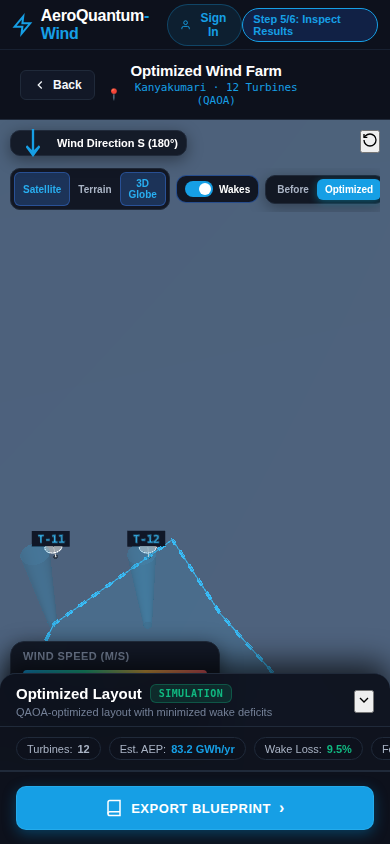
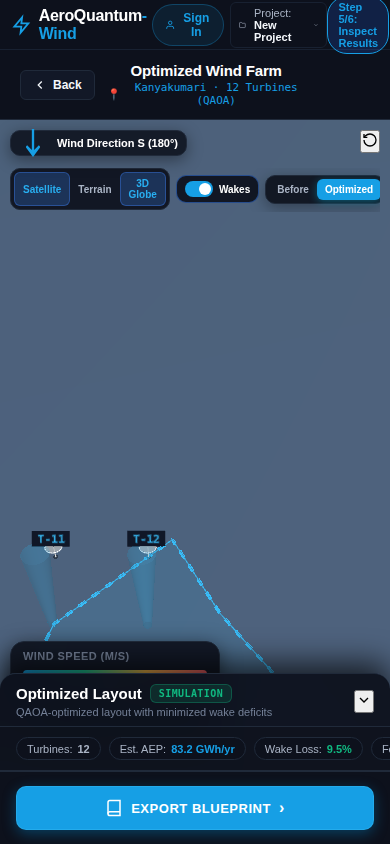
fix(ux-orchestration): fix CSS brace syntax error, add mobile map contextual tools & GPS, restructure turbine stepper hierarchy, and enhance inspector

diff --git a/frontend/css/style.css b/frontend/css/style.css
@@ -597,6 +597,234 @@ body {
     color: #ffffff;
 }
 
+/* GPS Inline Button inside search pill */
+.btn-map-gps-inline {
+    background: transparent;
+    border: none;
+    color: var(--primary-cyan);
+    display: flex;
+    align-items: center;
+    justify-content: center;
+    padding: 4px;
+    margin-left: 6px;
+    border-radius: var(--radius-sm);
+    cursor: pointer;
+    transition: all 0.15s ease;
+}
+
+.btn-map-gps-inline:hover {
+    background: rgba(255, 255, 255, 0.1);
+    transform: scale(1.05);
+}
+
+/* Contextual Location & Boundary Tools (Apple Liquid Glass) */
+.map-contextual-bar {
+    position: absolute;
+    top: 60px;
+    left: 20px;
+    z-index: 400;
+    pointer-events: auto;
+    display: flex;
+    align-items: center;
+    gap: 6px;
+    flex-wrap: wrap;
+}
+
+.ctx-pill-btn {
+    display: inline-flex;
+    align-items: center;
+    gap: 5px;
+    background: rgba(13, 17, 28, 0.82);
+    backdrop-filter: blur(20px) saturate(180%);
+    -webkit-backdrop-filter: blur(20px);
+    border: 1px solid rgba(255, 255, 255, 0.12);
+    color: var(--foreground);
+    padding: 6px 12px;
+    border-radius: 20px;
+    font-size: 11px;
+    font-weight: 600;
+    cursor: pointer;
+    box-shadow: 0 4px 14px rgba(0, 0, 0, 0.35);
+    transition: all 0.18s cubic-bezier(0.16, 1, 0.3, 1);
+}
+
+.ctx-pill-btn:hover {
+    background: rgba(255, 255, 255, 0.15);
+    border-color: rgba(255, 255, 255, 0.25);
+    transform: translateY(-1px);
+}
+
+.ctx-pill-btn:active {
+    transform: scale(0.96);
+}
+
+.ctx-pill-btn.secondary {
+    color: var(--text-secondary);
+    background: rgba(13, 17, 28, 0.65);
+}
+
+/* Floating Coordinates Input Popup */
+.ctx-coords-popup {
+    position: absolute;
+    top: 104px;
+    left: 20px;
+    z-index: 450;
+    pointer-events: auto;
+    width: 280px;
+    background: rgba(15, 20, 32, 0.95);
+    backdrop-filter: blur(24px) saturate(190%);
+    -webkit-backdrop-filter: blur(24px);
+    border: 1px solid rgba(255, 255, 255, 0.14);
+    border-radius: var(--radius-lg);
+    padding: 14px;
+    box-shadow: 0 16px 36px rgba(0, 0, 0, 0.6);
+    display: flex;
+    flex-direction: column;
+    gap: 10px;
+    animation: popupFadeIn 0.2s cubic-bezier(0.16, 1, 0.3, 1);
+}
+
+@keyframes popupFadeIn {
+    from { opacity: 0; transform: translateY(-8px); }
+    to { opacity: 1; transform: translateY(0); }
+}
+
+.coords-popup-header {
+    display: flex;
+    justify-content: space-between;
+    align-items: center;
+    font-size: 12px;
+    font-weight: 700;
+    color: var(--foreground);
+}
+
+.btn-coords-close {
+    background: transparent;
+    border: none;
+    color: var(--text-dim);
+    font-size: 14px;
+    cursor: pointer;
+    padding: 2px 6px;
+    border-radius: var(--radius-sm);
+}
+
+.btn-coords-close:hover {
+    color: var(--foreground);
+    background: rgba(255, 255, 255, 0.1);
+}
+
+.coords-popup-inputs {
+    display: grid;
+    grid-template-columns: 1fr 1fr;
+    gap: 8px;
+}
+
+.coords-field {
+    display: flex;
+    flex-direction: column;
+    gap: 4px;
+}
+
+.coords-field label {
+    font-size: 10px;
+    color: var(--text-dim);
+    font-weight: 600;
+    text-transform: uppercase;
+}
+
+.coords-field input {
+    background: rgba(0, 0, 0, 0.4);
+    border: 1px solid var(--border-light);
+    border-radius: var(--radius-sm);
+    color: #ffffff;
+    padding: 6px 8px;
+    font-size: 12px;
+    font-family: monospace;
+    outline: none;
+}
+
+.coords-field input:focus {
+    border-color: var(--primary-cyan);
+}
+
+.btn-apply-coords {
+    background: var(--primary-blue);
+    color: #ffffff;
+    border: none;
+    border-radius: var(--radius-sm);
+    padding: 8px 12px;
+    font-size: 11px;
+    font-weight: 700;
+    cursor: pointer;
+    transition: opacity 0.15s ease;
+}
+
+.btn-apply-coords:hover {
+    opacity: 0.9;
+}
+
+/* Review Site & Continue Action Buttons */
+.btn-review-site {
+    background: rgba(255, 255, 255, 0.08);
+    border: 1px solid rgba(255, 255, 255, 0.15);
+    color: var(--foreground);
+    padding: 10px 14px;
+    border-radius: var(--radius-md);
+    font-size: 12px;
+    font-weight: 600;
+    cursor: pointer;
+    display: inline-flex;
+    align-items: center;
+    gap: 6px;
+    transition: all 0.15s ease;
+}
+
+.btn-review-site:hover {
+    background: rgba(255, 255, 255, 0.14);
+    border-color: rgba(255, 255, 255, 0.25);
+}
+
+.btn-change-cfg {
+    background: rgba(255, 255, 255, 0.08);
+    border: 1px solid rgba(255, 255, 255, 0.15);
+    color: var(--text-secondary);
+    padding: 8px 12px;
+    border-radius: var(--radius-md);
+    font-size: 11px;
+    font-weight: 600;
+    cursor: pointer;
+    transition: all 0.15s ease;
+}
+
+.btn-change-cfg:hover {
+    color: var(--foreground);
+    background: rgba(255, 255, 255, 0.14);
+}
+
+/* Compare Layout Button in Screen 5 Inspector */
+.btn-inspector-compare {
+    width: 100%;
+    background: rgba(255, 255, 255, 0.07);
+    border: 1px solid rgba(255, 255, 255, 0.14);
+    color: var(--primary-cyan);
+    padding: 9px 14px;
+    border-radius: var(--radius-md);
+    font-size: 12px;
+    font-weight: 600;
+    cursor: pointer;
+    display: flex;
+    align-items: center;
+    justify-content: center;
+    gap: 8px;
+    transition: all 0.18s cubic-bezier(0.16, 1, 0.3, 1);
+}
+
+.btn-inspector-compare:hover {
+    background: rgba(0, 240, 255, 0.12);
+    border-color: var(--primary-cyan);
+    color: #ffffff;
+}
+
 /* Map Right Floating Controls */
 .map-floating-controls {
     position: absolute;
@@ -925,7 +1153,7 @@ body {
     .brand-divider,
     .brand-tag,
     .stepper-nav,
-    .header-actions .project-badge {
+    .btn-auth-header {
         display: none;
     }
 
@@ -935,7 +1163,8 @@ body {
         gap: 6px;
     }
 
-    .btn-auth-header {
+    .header-actions .project-badge {
+        display: inline-flex;
         padding: 4px 8px;
         font-size: 11px;
     }
@@ -1000,9 +1229,40 @@ body {
         flex-shrink: 0;
     }
 
+    /* Mobile Contextual Location & Boundary Bar */
+    .map-contextual-bar {
+        top: 92px;
+        left: 10px;
+        right: 10px;
+        gap: 4px;
+        overflow-x: auto;
+        flex-wrap: nowrap;
+        scrollbar-width: none;
+        padding-bottom: 2px;
+    }
+
+    .map-contextual-bar::-webkit-scrollbar {
+        display: none;
+    }
+
+    .ctx-pill-btn {
+        padding: 5px 10px;
+        font-size: 10px;
+        white-space: nowrap;
+        flex-shrink: 0;
+    }
+
+    .ctx-coords-popup {
+        top: 136px;
+        left: 10px;
+        right: 10px;
+        width: calc(100% - 20px);
+        max-width: 340px;
+    }
+
     .map-floating-controls {
         right: 12px;
-        top: 96px;
+        top: 140px;
         transform: none;
         gap: 6px;
     }

diff --git a/frontend/js/app.js b/frontend/js/app.js
@@ -1241,6 +1241,15 @@
                 this.showToast(`Turbine count adjusted to site capacity (${maxCapacity} turbines)`, 'info');
             });
 
+            // Change configuration button
+            document.getElementById('btn-change-config')?.addEventListener('click', () => {
+                const input = document.getElementById('cfg-turbines-count');
+                if (input) {
+                    input.focus();
+                    input.select();
+                }
+            });
+
             // Primary Action: GENERATE INITIAL LAYOUT
             document.getElementById('btn-generate-layout')?.addEventListener('click', () => {
                 this.validateAndGenerateLayout();
@@ -1353,6 +1362,7 @@
             const headline = document.getElementById('capacity-status-headline');
             const desc = document.getElementById('capacity-status-desc');
             const clampBtn = document.getElementById('btn-clamp-capacity');
+            const changeConfigBtn = document.getElementById('btn-change-config');
             const utilBadge = document.getElementById('badge-capacity-utilization');
 
             const currentCount = cfg.turbineCount;
@@ -1372,6 +1382,7 @@
                 if (headline) headline.innerText = 'Site Capacity Optimal';
                 if (desc) desc.innerText = `${currentCount} turbines comfortably fit within the ${site.areaKm2.toFixed(1)} km² site with standard ${cfg.spacingMultiplierD}D aerodynamic wake buffer spacing.`;
                 if (clampBtn) clampBtn.style.display = 'none';
+                if (changeConfigBtn) changeConfigBtn.style.display = 'none';
                 if (utilBadge) {
                     utilBadge.innerText = `${Math.round((currentCount / maxCapacity) * 100)}% Capacity`;
                     utilBadge.style.color = 'var(--primary-cyan)';
@@ -1384,6 +1395,9 @@
                 if (clampBtn) {
                     clampBtn.style.display = 'inline-block';
                     clampBtn.innerText = `Optimize ${maxCapacity} Feasible Turbines`;
+                }
+                if (changeConfigBtn) {
+                    changeConfigBtn.style.display = 'inline-block';
                 }
                 if (utilBadge) {
                     utilBadge.innerText = `Exceeds Capacity (${currentCount}/${maxCapacity})`;
@@ -2263,12 +2277,16 @@
                 this.toggleScreen5Wakes();
             });
 
-            // Before / After segmented toggle
+            // Before / After segmented toggle & compare button
             document.getElementById('s5-btn-before')?.addEventListener('click', () => {
                 this.toggleScreen5BeforeAfter('before');
             });
             document.getElementById('s5-btn-optimized')?.addEventListener('click', () => {
                 this.toggleScreen5BeforeAfter('optimized');
+            });
+            document.getElementById('btn-s5-compare-layout')?.addEventListener('click', () => {
+                const target = APP_STATE.screen5Mode === 'optimized' ? 'before' : 'optimized';
+                this.toggleScreen5BeforeAfter(target);
             });
 
             // Reset view button
@@ -2635,6 +2653,9 @@
 
             const lonElem = document.getElementById('s5-inspector-lon');
             if (lonElem) lonElem.innerText = `${turbine.lon.toFixed(4)}° E`;
+
+            const elevElem = document.getElementById('s5-inspector-elevation');
+            if (elevElem) elevElem.innerText = `${turbine.elevation !== undefined ? turbine.elevation : Math.round(APP_STATE.selectedSite.elevationM || 42)} m`;
 
             const outputMw = ((turbine.effective_mps / 8.0) * (cfg.ratedPowerKw / 1000.0)).toFixed(2);
             const outElem = document.getElementById('s5-inspector-output');

diff --git a/frontend/index.html b/frontend/index.html
@@ -712,6 +712,28 @@
                 <!-- Scrollable Form Body -->
                 <div class="config-scroll-body">
 
+                    <!-- Selected Site Summary -->
+                    <div class="config-card site-persistence-card" style="padding: 10px 14px; margin-bottom: 10px;">
+                        <div class="site-metadata-table" style="margin-top: 0;">
+                            <div class="meta-row">
+                                <span class="meta-label">Location</span>
+                                <span id="s2-meta-location" class="meta-val">Kanyakumari, Tamil Nadu, India</span>
+                            </div>
+                            <div class="meta-row">
+                                <span class="meta-label">Coordinates</span>
+                                <span id="s2-meta-coords" class="meta-val mono">8.0883° N, 77.5385° E</span>
+                            </div>
+                            <div class="meta-row">
+                                <span class="meta-label">Calculated Area</span>
+                                <span id="s2-meta-area" class="meta-val">24.8 km²</span>
+                            </div>
+                            <div class="meta-row">
+                                <span class="meta-label">Live Wind Telemetry</span>
+                                <span id="s2-meta-wind" class="meta-val" style="color: var(--primary-cyan);">7.1 m/s @ 300° (ECMWF)</span>
+                            </div>
+                        </div>
+                    </div>
+
                     <!-- SECTION 1: How many turbines? (Primary Question) -->
                     <div class="config-card">
                         <div class="config-card-header">
